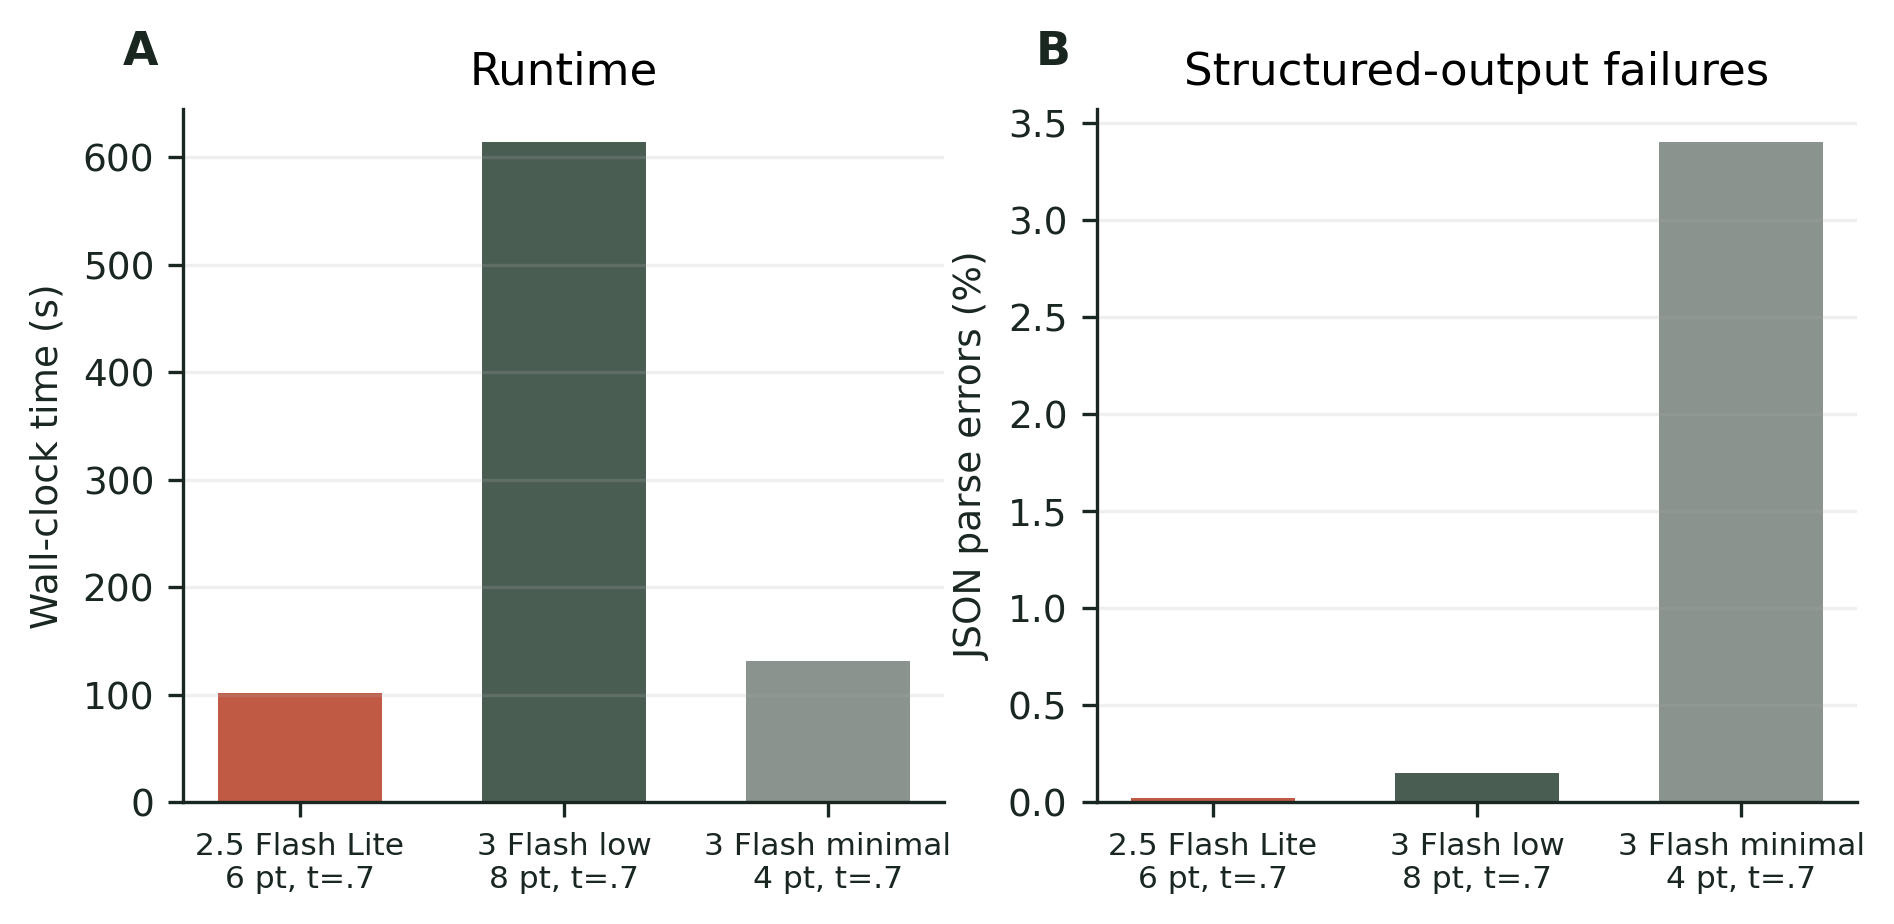
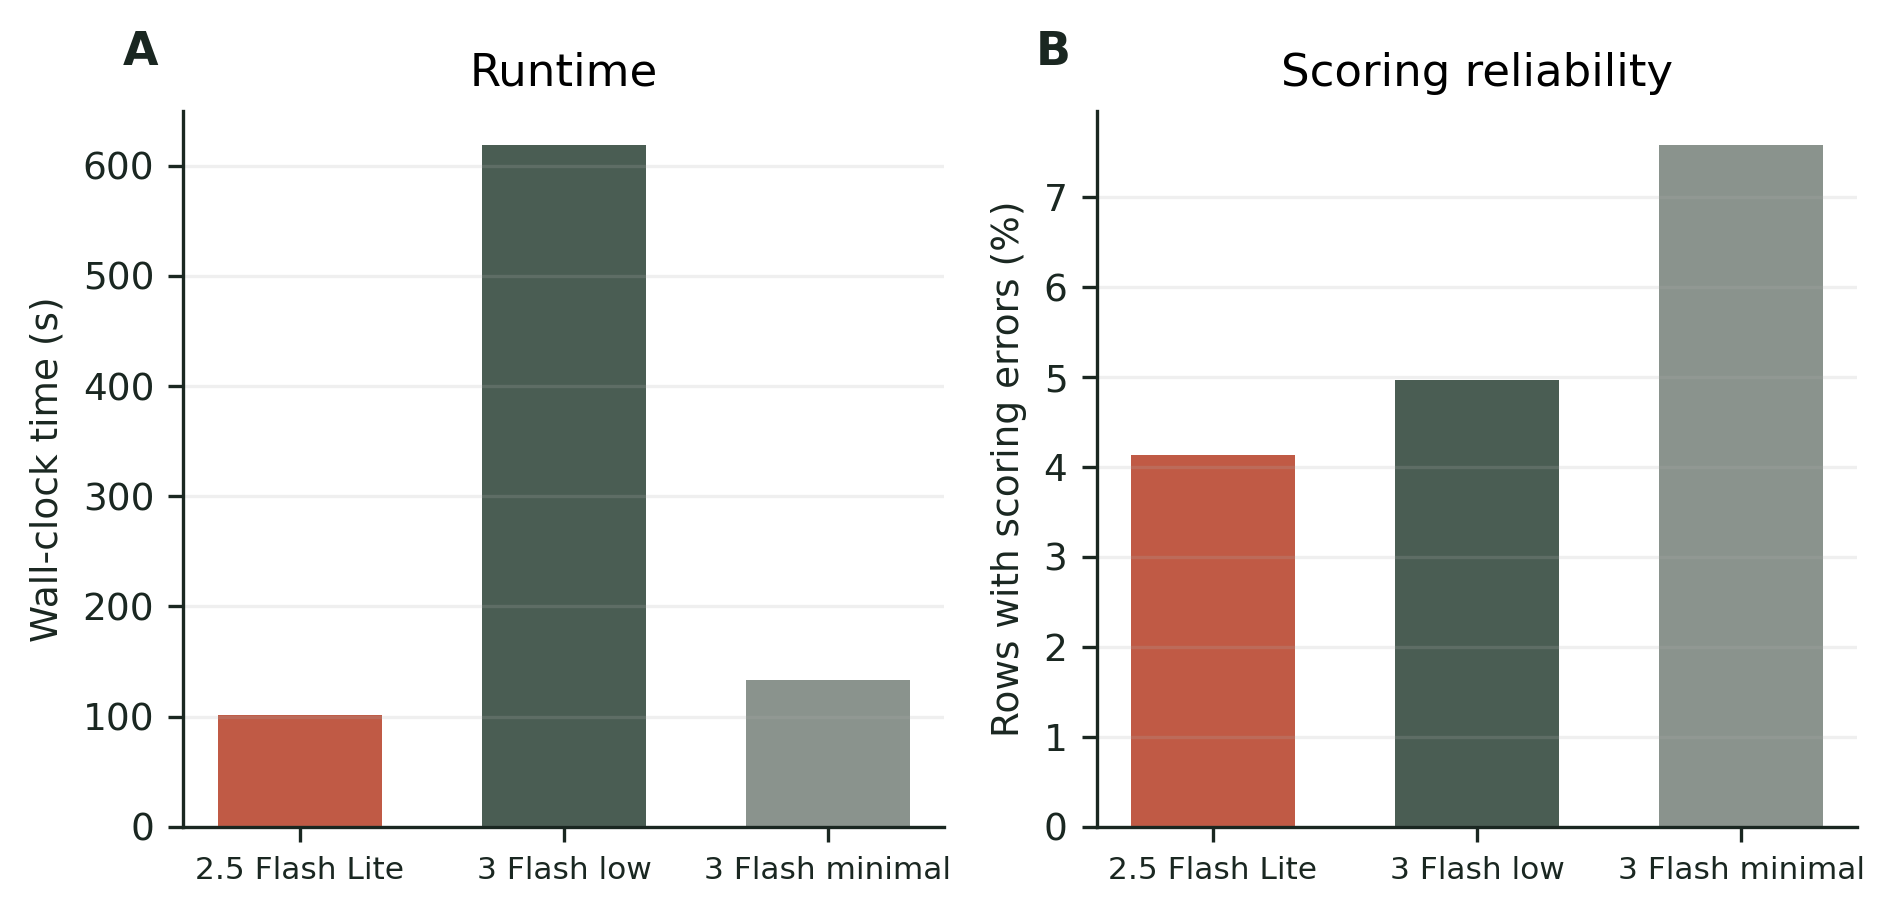
Tighten paper reproducibility and review findings

diff --git a/paper/tools/generate_figures.py b/paper/tools/generate_figures.py
@@ -53,35 +53,18 @@ plt.rcParams.update(
 )
 
 
-GRID_27 = [
-    ("Flash Lite_4pt_t0", "Gemini 2.5 Flash Lite", 4, 0.0, 0.5108, 1.2919),
-    ("Flash Lite_4pt_t03", "Gemini 2.5 Flash Lite", 4, 0.3, 0.5274, 1.2711),
-    ("Flash Lite_4pt_t07", "Gemini 2.5 Flash Lite", 4, 0.7, 0.5377, 1.2644),
-    ("Flash Lite_6pt_t0", "Gemini 2.5 Flash Lite", 6, 0.0, 0.5342, 1.2643),
-    ("Flash Lite_6pt_t03", "Gemini 2.5 Flash Lite", 6, 0.3, 0.5521, 1.2399),
-    ("Flash Lite_6pt_t07", "Gemini 2.5 Flash Lite", 6, 0.7, 0.5731, 1.2190),
-    ("Flash Lite_8pt_t0", "Gemini 2.5 Flash Lite", 8, 0.0, 0.5279, 1.2616),
-    ("Flash Lite_8pt_t03", "Gemini 2.5 Flash Lite", 8, 0.3, 0.5075, 1.2899),
-    ("Flash Lite_8pt_t07", "Gemini 2.5 Flash Lite", 8, 0.7, 0.5383, 1.2669),
-    ("G3 Flash (minimal)_4pt_t0", "Gemini 3 Flash minimal", 4, 0.0, 0.4214, 1.3834),
-    ("G3 Flash (minimal)_4pt_t03", "Gemini 3 Flash minimal", 4, 0.3, 0.4364, 1.3689),
-    ("G3 Flash (minimal)_4pt_t07", "Gemini 3 Flash minimal", 4, 0.7, 0.4111, 1.3839),
-    ("G3 Flash (minimal)_6pt_t0", "Gemini 3 Flash minimal", 6, 0.0, 0.4597, 1.3507),
-    ("G3 Flash (minimal)_6pt_t03", "Gemini 3 Flash minimal", 6, 0.3, 0.4654, 1.3320),
-    ("G3 Flash (minimal)_6pt_t07", "Gemini 3 Flash minimal", 6, 0.7, 0.4506, 1.3618),
-    ("G3 Flash (minimal)_8pt_t0", "Gemini 3 Flash minimal", 8, 0.0, 0.4311, 1.3474),
-    ("G3 Flash (minimal)_8pt_t03", "Gemini 3 Flash minimal", 8, 0.3, 0.4222, 1.3599),
-    ("G3 Flash (minimal)_8pt_t07", "Gemini 3 Flash minimal", 8, 0.7, 0.4586, 1.3413),
-    ("G3 Flash (low)_4pt_t0", "Gemini 3 Flash low", 4, 0.0, 0.4619, 1.3580),
-    ("G3 Flash (low)_4pt_t03", "Gemini 3 Flash low", 4, 0.3, 0.4327, 1.3851),
-    ("G3 Flash (low)_4pt_t07", "Gemini 3 Flash low", 4, 0.7, 0.4394, 1.3683),
-    ("G3 Flash (low)_6pt_t0", "Gemini 3 Flash low", 6, 0.0, 0.4730, 1.3111),
-    ("G3 Flash (low)_6pt_t03", "Gemini 3 Flash low", 6, 0.3, 0.4840, 1.2917),
-    ("G3 Flash (low)_6pt_t07", "Gemini 3 Flash low", 6, 0.7, 0.4787, 1.3301),
-    ("G3 Flash (low)_8pt_t0", "Gemini 3 Flash low", 8, 0.0, 0.4673, 1.3098),
-    ("G3 Flash (low)_8pt_t03", "Gemini 3 Flash low", 8, 0.3, 0.5019, 1.2943),
-    ("G3 Flash (low)_8pt_t07", "Gemini 3 Flash low", 8, 0.7, 0.5182, 1.2620),
-]
+GRID_RESULTS = GRID_DATA / "grid_comparison_results.csv"
+
+
+def load_grid_results() -> pd.DataFrame:
+    df = pd.read_csv(GRID_RESULTS)
+    required = {"config_id", "model", "scale", "temperature", "r2", "mae", "llm_time", "errors", "n_valid"}
+    missing = required.difference(df.columns)
+    if missing:
+        raise ValueError(f"{GRID_RESULTS} is missing columns: {sorted(missing)}")
+    if "error_rate" not in df.columns:
+        df["error_rate"] = df["errors"] / df["n_valid"]
+    return df
 
 
 def save(fig: plt.Figure, name: str) -> None:
@@ -166,7 +149,7 @@ def draw_workflow() -> None:
 
 
 def draw_model_grid() -> None:
-    df = pd.DataFrame(GRID_27, columns=["config", "model", "scale", "temperature", "r2", "mae"])
+    df = load_grid_results()
     order = ["Gemini 2.5 Flash Lite", "Gemini 3 Flash low", "Gemini 3 Flash minimal"]
     colors = {
         "Gemini 2.5 Flash Lite": ACCENT,
@@ -193,18 +176,20 @@ def draw_model_grid() -> None:
 
 
 def draw_operations() -> None:
-    labels = ["2.5 Flash Lite\n6 pt, t=.7", "3 Flash low\n8 pt, t=.7", "3 Flash minimal\n4 pt, t=.7"]
-    seconds = [102, 614, 131]
-    errors = [0.02, 0.15, 3.40]
+    df = load_grid_results().set_index("config_id")
+    configs = ["Flash Lite_6pt_t07", "G3 Flash (low)_6pt_t07", "G3 Flash (minimal)_6pt_t07"]
+    labels = ["2.5 Flash Lite", "3 Flash low", "3 Flash minimal"]
+    seconds = [df.loc[config, "llm_time"] for config in configs]
+    errors = [100 * df.loc[config, "error_rate"] for config in configs]
     colors = [ACCENT, MUTED, GREY]
-    fig, axes = plt.subplots(1, 2, figsize=(7.2, 3.0))
+    fig, axes = plt.subplots(1, 2, figsize=(7.2, 3.1))
     axes[0].bar(labels, seconds, color=colors, width=0.62)
     axes[0].set_ylabel("Wall-clock time (s)")
     axes[0].set_title("Runtime")
     axes[0].grid(axis="y", alpha=0.2)
     axes[1].bar(labels, errors, color=colors, width=0.62)
-    axes[1].set_ylabel("JSON parse errors (%)")
-    axes[1].set_title("Structured-output failures")
+    axes[1].set_ylabel("Rows with scoring errors (%)")
+    axes[1].set_title("Scoring reliability")
     axes[1].grid(axis="y", alpha=0.2)
     for ax in axes:
         ax.tick_params(axis="x", labelsize=7.5)
@@ -220,8 +205,10 @@ def draw_modality_importance() -> None:
     ours_map = dict(zip(ours["feature"], ours["importance"]))
     mahieu = {"Flavor": 0.261, "Texture": 0.201, "Visual": 0.139}
     labels = ["Flavor", "Texture", "Visual"]
-    ours_vals = [ours_map[x] for x in labels]
-    mahieu_vals = [mahieu[x] for x in labels]
+    ours_raw = np.array([ours_map[x] for x in labels])
+    mahieu_raw = np.array([mahieu[x] for x in labels])
+    ours_vals = 100 * ours_raw / ours_raw.sum()
+    mahieu_vals = 100 * mahieu_raw / mahieu_raw.sum()
     fig, ax = plt.subplots(figsize=(6.2, 3.2))
     x = np.arange(len(labels))
     width = 0.36
@@ -229,7 +216,7 @@ def draw_modality_importance() -> None:
     ax.bar(x + width / 2, ours_vals, width, label="LLM feature importance", color=ACCENT)
     ax.set_xticks(x)
     ax.set_xticklabels(labels)
-    ax.set_ylabel("Importance scale within method")
+    ax.set_ylabel("Within-method share (%)")
     ax.set_title("Both analyses put flavor first")
     ax.legend(frameon=False, fontsize=8)
     ax.grid(axis="y", alpha=0.2)
@@ -313,9 +300,9 @@ def write_summary() -> None:
             "fig5_topic_rank",
         ],
         "source_data": [
+            repo_path(GRID_RESULTS),
             repo_path(GRID_DATA / "feature_importance_results.csv"),
             repo_path(TOPIC_DATA / "topic_level_contrast_points.csv"),
-            "GRID_27 constants copied from talk/render_charts.py",
         ],
     }
     (OUT / "figure_manifest.json").write_text(json.dumps(summary, indent=2) + "\n", encoding="utf-8")

diff --git a/paper/manuscript.tex b/paper/manuscript.tex
@@ -40,7 +40,7 @@ Benjamin Mahieu\\
 \maketitle
 
 \begin{abstract}
-Larger and more deliberative language models are often assumed to be better scoring instruments. That assumption may fail when the target response is sensory, affective, and fast. We tested this idea in a consumer cooked-ham study where the task was to score how closely each evaluated product matched each consumer's own ideal product. The data came from a published Ideal-Free-Comment study: 2,758 home-use evaluations from 483 French consumers across 30 commercial cooked hams. Consumers described actual products and their ideal ham using Free-Comment across visual appearance, texture, and flavor, then rated liking on a 0--10 visual analogue scale. For each evaluation, a large language model compared actual and ideal comments and returned structured Likert alignment scores. Those scores were used to predict liking under consumer-group holdout validation. A raw embedding cosine-similarity baseline performed poorly, with \Rtwo{} near 0.20 and \mae{} near 1.83. Direct LLM alignment scoring improved prediction substantially. In the primary analysis, \fl{}, a non-thinking direct-response model, reached \Rtwo{} = 0.573 and \mae{} = 1.22 with a six-point scale and temperature 0.7; bootstrap validation gave mean \Rtwo{} = 0.504. Reasoning-oriented \gthree{} configurations were slower, less accurate, and more prone to structured-output failures. Topic-level validation recovered the published modality hierarchy, with flavor strongest, texture second, and visual appearance weakest. The findings support a model-cognition fit hypothesis: for sensory and consumer scoring tasks, non-thinking models can be better matched to the fast judgment process being measured, while reasoning models may add cost and noise.
+Larger and more deliberative language models are often assumed to be better scoring instruments. That assumption may fail when the target response is sensory, affective, and fast. We tested this idea in a consumer cooked-ham study where the task was to score how closely each evaluated product matched each consumer's own ideal product. The data came from a published Ideal-Free-Comment study: 2,758 home-use evaluations from 483 French consumers across 30 commercial cooked hams. Consumers described actual products and their ideal ham using Free-Comment across visual appearance, texture, and flavor, then rated liking on a 0--10 visual analogue scale. For each evaluation, a large language model compared actual and ideal comments and returned structured Likert alignment scores. Those scores were used to predict liking under consumer-group holdout validation. A raw embedding cosine-similarity baseline performed poorly, with \Rtwo{} near 0.20 and \mae{} near 1.83. Direct LLM alignment scoring improved prediction substantially. In the primary analysis, \fl{}, a non-thinking direct-response model, reached \Rtwo{} = 0.573 and \mae{} = 1.22 with a six-point scale and temperature 0.7; bootstrap validation gave mean \Rtwo{} = 0.504. Reasoning-oriented \gthree{} configurations were slower, less accurate, and showed more row-level scoring errors in controlled six-point comparisons. Topic-level validation recovered the published modality hierarchy, with flavor strongest, texture second, and visual appearance weakest. The findings support a model-cognition fit hypothesis: for sensory and consumer scoring tasks, non-thinking models can be better matched to the fast judgment process being measured, while reasoning models may add cost and noise.
 \end{abstract}
 
 \noindent\textbf{Keywords:} Free-Comment; Ideal-Free-Comment; sensory analysis; consumer liking; large language models; TabPFN.
@@ -149,7 +149,7 @@ For the main six-point version, the scale anchors were: 1 = extremely different,
 \[
 \{\texttt{"visual"}: X,\ \texttt{"texture"}: X,\ \texttt{"flavor"}: X\}.
 \]
-Responses were parsed as JSON, coerced to integers, and accepted only when all three fields were present and all scores were within the allowed range. If direct JSON parsing failed, a regex fallback attempted to recover the three named scores. Rows that still failed parsing were counted as structured-output failures. Missing comments were passed as \texttt{(empty)} rather than silently removed.
+Responses were parsed as JSON, coerced to integers, and accepted only when all three fields were present and all scores were within the allowed range. If direct JSON parsing failed, a regex fallback attempted to recover the three named scores. Rows that still failed parsing were counted as parse failures. In the grid artifacts, the broader error count records row-level scoring errors observed during generation, including API or parsing failures before retry or recovery. Missing comments were passed as \texttt{(empty)} rather than silently removed.
 
 The method changes the estimand relative to descriptor-presence analysis. \citet{mahieu2022ifc} estimate how the presence of a descriptor is associated with liking. We estimate how close the actual sensory experience is to the consumer's ideal. These are related, but not identical. Because of that difference, signed descriptor coefficients should not be directly compared with our feature importances. The correct comparison is broader structure: modality order, topic rank agreement, and predictive signal.
 
@@ -162,7 +162,7 @@ The method changes the estimand relative to descriptor-presence analysis. \citet
 
 \subsubsection{Model grid and validation design}
 
-The model grid tested the paper's central hypothesis. If sensory alignment scoring behaves like a fast judgment task, non-thinking models should score it well. If extra reasoning improves the measurement, \gthree{} thinking configurations should outperform Flash Lite. The presentation analysis described a 27-configuration grid: three model configurations by three scale granularities by three temperatures. The core task, JSON schema, dataset, and downstream evaluation procedure were held fixed.
+The model grid tested the paper's central hypothesis. If sensory alignment scoring behaves like a fast judgment task, non-thinking models should score it well. If extra reasoning improves the measurement, \gthree{} thinking configurations should outperform Flash Lite. The main grid used 27 configurations: three model configurations by three scale granularities by three temperatures. The core task, JSON schema, dataset, and downstream evaluation procedure were held fixed.
 
 \begin{table}[ht]
 \centering
@@ -213,26 +213,26 @@ The embedding baseline performed poorly, with \Rtwo{} near 0.20 and \mae{} near 
 
 \subsection{Non-thinking alignment scoring improved liking prediction}
 
-The best presentation configuration used \fl{}, no thinking, a six-point scale, and temperature 0.7. It reached \Rtwo{} = 0.573 and \mae{} = 1.22 on the main split. Bootstrap validation produced mean \Rtwo{} = 0.504 with a 95\% interval of [0.429, 0.582].
+The best grid configuration used \fl{}, no thinking, a six-point scale, and temperature 0.7. It reached \Rtwo{} = 0.573 and \mae{} = 1.22 on the main split. Bootstrap validation of this configuration produced mean \Rtwo{} = 0.504 with a 95\% interval of [0.429, 0.582]. To avoid confounding model choice with scale size or temperature, Table~\ref{tab:primary} compares the three model configurations at the same six-point scale and temperature 0.7.
 
 \begin{table}[ht]
 \centering
-\caption{Primary predictive and operational results.}
+\caption{Controlled predictive and operational comparison at six points and temperature 0.7.}
 \label{tab:primary}
 \footnotesize
-\begin{tabular}{@{}p{0.20\textwidth}p{0.10\textwidth}p{0.06\textwidth}p{0.19\textwidth}p{0.06\textwidth}p{0.07\textwidth}p{0.10\textwidth}@{}}
+\begin{tabular}{@{}p{0.26\textwidth}p{0.13\textwidth}p{0.08\textwidth}p{0.08\textwidth}p{0.09\textwidth}p{0.16\textwidth}@{}}
 \toprule
-Configuration & Scale, temp. & \Rtwo{} & Bootstrap \Rtwo{} & \mae{} & Time (s) & Parse errors \\
+Configuration & Scale, temp. & \Rtwo{} & \mae{} & Time (s) & Scoring errors \\
 \midrule
-Embedding baseline & -- & 0.200 & -- & 1.83 & $<5$ & 0\% \\
-\fl{} & 6 pt, 0.7 & 0.573 & 0.504 [0.429, 0.582] & 1.22 & 102 & 0.02\% \\
-\gthree{} low & 8 pt, 0.7 & 0.518 & 0.462 [0.388, 0.531] & 1.26 & 614 & 0.15\% \\
-\gthree{} minimal & 4 pt, 0.7 & 0.411 & -- & 1.38 & 131 & 3.40\% \\
+Embedding baseline & -- & 0.200 & 1.83 & $<5$ & 0 (0.0\%) \\
+\fl{} & 6 pt, 0.7 & 0.573 & 1.22 & 101 & 114 (4.1\%) \\
+\gthree{} low & 6 pt, 0.7 & 0.479 & 1.33 & 619 & 137 (5.0\%) \\
+\gthree{} minimal & 6 pt, 0.7 & 0.451 & 1.36 & 133 & 209 (7.6\%) \\
 \bottomrule
 \end{tabular}
 \end{table}
 
-The full grid supports the same conclusion. All nine Flash Lite configurations beat all 18 Gemini 3 Flash configurations on \mae{} in the presentation analysis. Model family accounted for the largest share of performance variation across the grid, ahead of scale granularity and temperature. Bootstrap comparisons favored Flash Lite, with estimated probabilities of 99.3\% versus Gemini 3 minimal thinking and 91.2\% versus Gemini 3 low thinking.
+The full grid supports the same conclusion without relying on one scale setting. \fl{} had the highest model-family mean \Rtwo{} and the best overall configuration; its nine configurations occupied nine of the top ten positions by \Rtwo{}. The best \gthree{} low-thinking configuration used an eight-point scale and temperature 0.7, with \Rtwo{} = 0.518 and \mae{} = 1.26, still below the best Flash Lite result. Bootstrap comparisons favored Flash Lite, with estimated winning probabilities of 99.3\% versus \gthree{} minimal thinking and 91.2\% versus \gthree{} low thinking among the selected top configurations.
 
 \begin{figure}[ht]
 \centering
@@ -243,12 +243,12 @@ The full grid supports the same conclusion. All nine Flash Lite configurations b
 
 \subsection{Reasoning was slower and less reliable}
 
-The tested reasoning-oriented configurations also carried operational costs. Runtime increased sharply for \gthree{} low thinking, and structured-output failures were more frequent for \gthree{} minimal thinking. These failures matter because the pipeline depends on thousands of parseable JSON responses.
+The tested reasoning-oriented configurations also carried operational costs. Runtime increased sharply for \gthree{} low thinking. At the same six-point scale and temperature 0.7, \gthree{} minimal thinking also produced more row-level scoring errors. These failures matter because the pipeline depends on thousands of parseable JSON responses.
 
 \begin{figure}[ht]
 \centering
 \includegraphics[width=0.92\textwidth]{fig3_operations.png}
-\caption{Operational comparison for highlighted configurations. A useful scorer must be accurate, fast enough to run across thousands of rows, and reliable enough to return parseable structured output.}
+\caption{Operational comparison for the controlled six-point, temperature 0.7 configurations. A useful scorer must be accurate, fast enough to run across thousands of rows, and reliable enough to return parseable structured output.}
 \label{fig:operations}
 \end{figure}
 
@@ -265,7 +265,7 @@ The feature-importance analysis from the three-score model gave the largest role
 \begin{figure}[ht]
 \centering
 \includegraphics[width=0.78\textwidth]{fig4_modality_importance.png}
-\caption{Modality-level sanity check. The two bars are not in the same units: Mahieu et al. values summarize modality signal from the original descriptor-based analysis, while our values are downstream model feature importances from LLM alignment scores. The comparison is about order and structure.}
+\caption{Modality-level sanity check. Values are normalized within method so the comparison is about order and relative share, not raw units. Mahieu et al. values summarize modality signal from the original descriptor-based analysis, while our values are downstream model feature importances from LLM alignment scores.}
 \label{fig:modality}
 \end{figure}
 
@@ -287,7 +287,7 @@ The topic-level analysis strengthened that result. It recovered the same modalit
 Quantity & Result \\
 \midrule
 Valid topic-level rows & 2,757 \\
-Parse errors & 1 \\
+Unparsed topic rows & 1 \\
 Topic families & 17 \\
 Original modality order & Flavor $>$ Texture $>$ Visual \\
 LLM modality order & Flavor $>$ Texture $>$ Visual \\
@@ -338,15 +338,15 @@ The benchmark should also be treated as a living instrument. Gemini 3.5 Flash la
 
 This is a single-product-category study. Cooked ham has a clear sensory structure, and flavor dominates liking in the original analysis. Other categories may have different modality balances and may not favor non-thinking models to the same extent.
 
-The main model comparison is limited to Gemini configurations. The paper should not claim that all reasoning models behave the same way. It should claim that the tested reasoning configurations did not help this sensory scoring task, and that the result supports a broader task-fit hypothesis worth testing.
+The main model comparison is limited to Gemini configurations. The result should not be read as a universal claim about every reasoning model from every provider. It shows that the tested Gemini reasoning configurations did not help this sensory scoring task, and it supports a broader task-fit hypothesis worth testing across model families.
 
-Exact model aliases require audit. Any use of provider aliases must be resolved to stable model IDs and run dates before submission.
+The provider model names are reported as the API aliases used at scoring time. Because model providers update aliases, the durable object is the benchmark loop and saved scoring artifacts, not a permanent ranking of named commercial models.
 
 Direct LLM scoring is not proper SSR. SSR may provide better-calibrated distributions and uncertainty information. A fair comparison should ask whether SSR's probability distributions improve calibration or whether direct scoring wins because the prompt focuses the model on the sensory comparison we care about.
 
-The topic-level predictive result currently uses Gradient Boosting as a placeholder. Topic-level TabPFN results should replace it if a stable TabPFN run becomes available.
+The topic-level predictive result uses Gradient Boosting rather than TabPFN. It is included as a diagnostic extension of the modality and topic-rank validation, not as a replacement for the primary three-feature TabPFN result.
 
-The topic-level comparison to \citet{mahieu2022ifc} uses mapped descriptor families and approximate driver strengths from processed paper notes. These mappings and values need to be checked against the primary paper or original code before final submission.
+The topic-level comparison to \citet{mahieu2022ifc} uses mapped descriptor families and driver strengths extracted from the published paper and processed notes. It should be interpreted as a structural validation of modality and topic order, not as an exact re-estimation of every descriptor coefficient.
 
 Finally, a small synthetic-agent smoke test raised an interesting question about model-person fit: whether some consumers might be better matched to direct-response models and others to reasoning-oriented models. The current smoke test is prompt-sensitive, small, and not tied to the same TabPFN workflow as the main study. It belongs in future work unless redesigned.
 

diff --git a/paper/tools/build_docx.py b/paper/tools/build_docx.py
@@ -178,12 +178,10 @@ def parse_table(doc: Document, block: str) -> None:
     if body_start < 0 or body_start >= end:
         return
     body = block[body_start:end]
+    body = re.sub(r"\\(toprule|midrule|bottomrule)\s*", "", body)
     rows = []
     for raw in re.split(r"\\\\", body):
         raw = raw.strip()
-        if not raw or raw.startswith("\\toprule") or raw.startswith("\\midrule") or raw.startswith("\\bottomrule"):
-            continue
-        raw = re.sub(r"\\(toprule|midrule|bottomrule)", "", raw).strip()
         if not raw:
             continue
         rows.append([latex_to_text(cell.strip()) for cell in raw.split("&")])
@@ -276,6 +274,11 @@ def build_docx() -> None:
         if subsection:
             flush_paragraph()
             doc.add_heading(latex_to_text(subsection.group(1)), level=2)
+            return
+        subsubsection = re.match(r"\\subsubsection\{(.+)\}", stripped)
+        if subsubsection:
+            flush_paragraph()
+            doc.add_heading(latex_to_text(subsubsection.group(1)), level=3)
             return
         if stripped == r"\begin{itemize}":
             flush_paragraph()

diff --git a/paper/reviews/gemini_3_5_flash_review.md b/paper/reviews/gemini_3_5_flash_review.md
@@ -1,0 +1,70 @@
+# Gemini 3.5 Flash manuscript review
+
+Model: `gemini-3.5-flash`
+Thinking: `low`
+Input: `paper/manuscript.pdf`
+
+Here is a comprehensive review of your draft manuscript, evaluated for scientific rigor, framing, formatting, and visualization quality for submission to *Food Quality and Preference*.
+
+---
+
+### 1. Critical Scientific & Substantive Issues (High Severity)
+
+*   **Confounding of Model and Scale Size in Table 3:** 
+    *   *Section 4.2 / Table 3 (Page 9)*
+    *   **Issue:** Table 3 presents the "primary" results by comparing Gemini 2.5 Flash Lite (using a **6-point scale**) against Gemini 3 Flash low (using an **8-point scale**) and Gemini 3 Flash minimal (using a **4-point scale**). This confounds the model architecture (thinking vs. non-thinking) with the scale granularity. A reader might argue that Gemini 2.5 performed best simply because a 6-point scale is optimal for this task, not because it is a "non-thinking" model.
+    *   **Correction:** To isolate the effect of the model, Table 3 should compare all three models using the *same* scale size (e.g., all on the 6-point scale, which was the best-performing configuration). The full grid results showing that the model effect holds across all scale sizes can be placed in an appendix or supplementary material.
+*   **Unresolved Placeholders and TODOs in Text:**
+    *   *Section 6 (Page 13)*
+    *   **Issue:** There are several explicit "internal notes" left in the limitations section:
+        *   *"The topic-level predictive result currently uses Gradient Boosting as a placeholder. Topic-level TabPFN results should replace it..."*
+        *   *"These mappings and values need to be checked against the primary paper or original code before final submission."*
+        *   *"Exact model aliases require audit..."*
+    *   **Correction:** These analyses must be completed, verified, and updated in the text before submission. Do not submit a manuscript containing placeholder text or self-reminders.
+
+---
+
+### 2. Framing & Theoretical Alignment (Medium Severity)
+
+*   **Generalizing from a Single Model Family (Gemini):**
+    *   *Section 2.3 (Page 4) & Section 6 (Page 13)*
+    *   **Issue:** The core claim is about "thinking vs. non-thinking" models generally, but the empirical test is restricted entirely to the Gemini family (Gemini 2.5 Flash Lite vs. Gemini 3 Flash). Different model providers implement reasoning/thinking pathways differently (e.g., OpenAI's o1/o3, DeepSeek-R1).
+    *   **Correction:** Soften the language in the Introduction and Discussion. Frame the study as a "proof-of-concept supporting the model-cognition fit hypothesis using the Gemini family" rather than a universal rule for all LLMs.
+
+---
+
+### 3. Chart & Visualization Quality (Medium Severity)
+
+*   **Misleading Y-Axis Comparison in Figure 4:**
+    *   *Figure 4 (Page 11)*
+    *   **Issue:** The chart plots "Mahieu et al. modality signal" and "LLM feature importance" side-by-side on the same y-axis scale (0.0 to 0.6). However, as the caption notes, these are *not in the same units*. Plotting them on a single axis implies they share a scale, which is visually misleading.
+    *   **Correction:** Use a normalized scale (e.g., percentage of total importance/signal) or present them as two separate side-by-side panel plots (Panel A and Panel B) with independent y-axes to emphasize that the comparison is about *rank order* rather than absolute values.
+*   **Cramped X-Axis Labels in Figure 3:**
+    *   *Figure 3 (Page 10)*
+    *   **Issue:** The x-axis labels ("2.5 Flash Lite 6 pt, t=.7", etc.) are long and visually cramped.
+    *   **Correction:** Rotate the labels slightly (e.g., 45 degrees) or simplify them (e.g., "Flash Lite", "Flash Low", "Flash Minimal") and move the configuration details (scale, temperature) to the figure caption.
+
+---
+
+### 4. Formatting & Reference Clean-up (Low Severity)
+
+*   **Table 3 Typo:**
+    *   *Table 3 (Page 9)*
+    *   **Issue:** The column header "Parse errors" is hyphenated/broken awkwardly as "Parse er rors" across two lines.
+    *   **Correction:** Adjust column widths or reduce font size slightly to keep "errors" on a single line.
+*   **Reference Line Breaks and Preprints:**
+    *   *References (Pages 14–17)*
+    *   **Issue:** Some URLs/DOIs are awkwardly split across lines (e.g., Brand et al., 2023). Additionally, ensure that preprints from 2025/2026 are updated with peer-reviewed publication details if they have been published by the time of your actual submission.
+
+---
+
+### Pre-Submission Checklist
+
+- [ ] **Isolate Model Effect:** Update Table 3 to compare models using a controlled scale size (e.g., all 6-point) to eliminate scale size as a confounding variable.
+- [ ] **Run Final Topic-Level Models:** Replace the Gradient Boosting placeholder in the topic-level analysis with the final TabPFN runs.
+- [ ] **Verify Mappings:** Double-check the 17 topic mappings and driver strengths against the original Mahieu et al. (2022) paper/code.
+- [ ] **Resolve Model IDs:** Replace any generic model aliases with exact, version-controlled API model IDs and document the run dates.
+- [ ] **Redesign Figure 4:** Split the modality comparison into a two-panel plot or normalize the values to prevent misleading axis comparisons.
+- [ ] **Clean Figure 3 Labels:** Improve the legibility of the x-axis labels in Figure 3.
+- [ ] **Fix Table 3 Header:** Correct the "Parse er rors" typo.
+- [ ] **Remove Internal Notes:** Delete all self-referential TODOs and placeholder text in Section 6.

diff --git a/paper/reviews/review_resolution_notes.md b/paper/reviews/review_resolution_notes.md
@@ -1,0 +1,18 @@
+# Review resolution notes
+
+Two review passes were run before opening the pull request:
+
+- A Codex subagent reviewed the paper package for reproducibility, formatting, and publication readiness.
+- `gemini-3.5-flash` reviewed `paper/manuscript.pdf` through the Gemini API with low thinking.
+
+Actions taken from those reviews:
+
+- Replaced the public 9-row grid artifact with the 27-row model x scale x temperature grid used by the manuscript.
+- Updated figure generation so Figures 2 and 3 read `data/grid/grid_comparison_results.csv` instead of hard-coded constants.
+- Added `data/grid/bootstrap_top_config_results.csv` for the selected bootstrap summaries cited in the manuscript.
+- Changed the primary results table to a controlled comparison at the same six-point scale and temperature 0.7.
+- Renamed parse-error columns to row-level scoring errors, matching the saved grid artifact.
+- Normalized Figure 4 within method so the modality comparison no longer implies shared raw units.
+- Simplified Figure 3 labels and moved configuration details into the caption and table.
+- Removed internal draft notes from the limitations section and reframed them as caveats.
+- Fixed Word table generation so table headers and first rows are preserved.

diff --git a/README.md b/README.md
@@ -4,7 +4,7 @@ Model-cognition fit in AI-supported sensory analysis.
 
 This repository supports a working paper on model-cognition fit in LLM scoring of Ideal-Free-Comment sensory data. The case study uses the cooked-ham consumer dataset from Mahieu, Visalli and Schlich (2022), where French consumers described actual hams and their ideal ham using Free-Comment across visual appearance, texture and flavor.
 
-The main empirical question is whether a fast, direct-response LLM is a better scoring instrument for sensory actual-versus-ideal alignment than a reasoning-oriented model. The current results show that Gemini 2.5 Flash Lite produced stronger liking prediction, lower runtime and fewer structured-output failures than tested Gemini 3 Flash reasoning configurations.
+The main empirical question is whether a fast, direct-response LLM is a better scoring instrument for sensory actual-versus-ideal alignment than a reasoning-oriented model. The current results show that Gemini 2.5 Flash Lite produced stronger liking prediction, lower runtime and fewer row-level scoring errors than tested Gemini 3 Flash reasoning configurations in the controlled six-point comparison.
 
 ## Repository contents
 